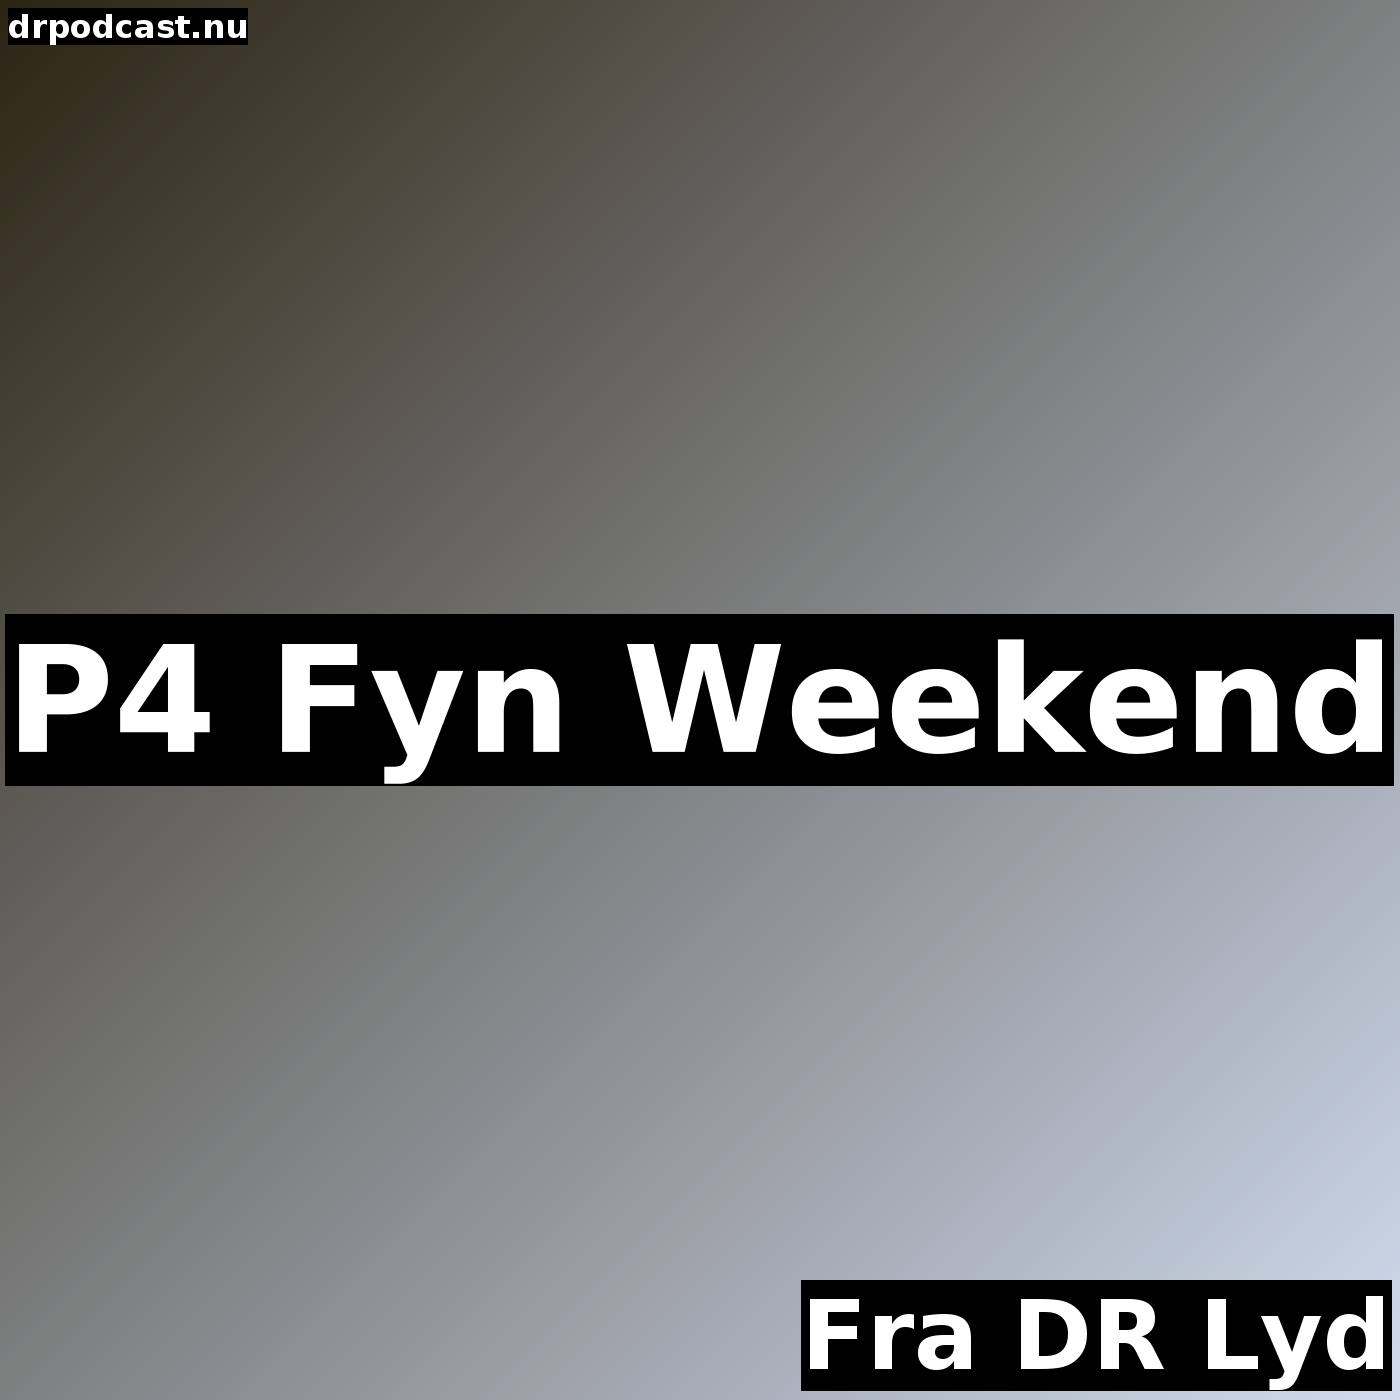
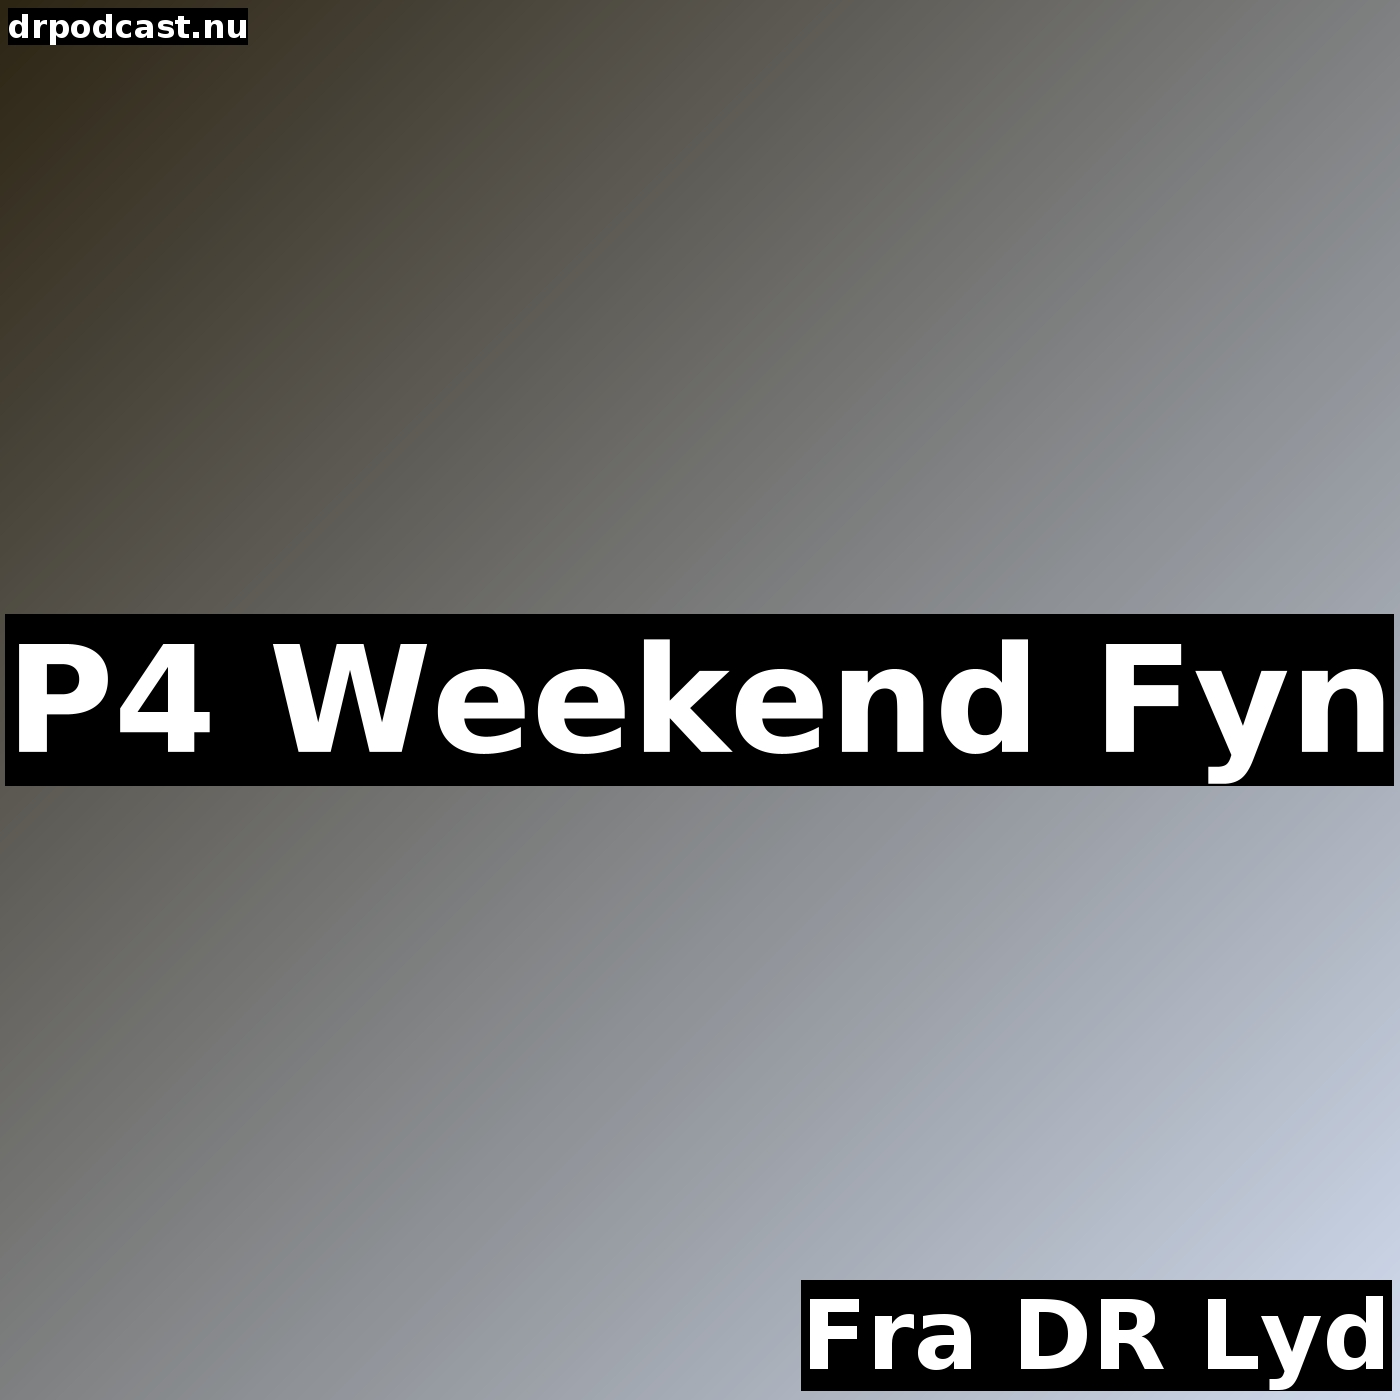
update

Changed region(s): [[0.1843, 0.4607, 1.0, 0.5836]]

diff --git a/index.html b/index.html
@@ -3164,9 +3164,9 @@
             </a>
             <a href="p4-fyn-weekend/feed.xml">
                 <div>
-                    <img class="tile" src="p4-fyn-weekend/image.jpg" alt="P4 Fyn Weekend" />
+                    <img class="tile" src="p4-fyn-weekend/image.jpg" alt="P4 Weekend Fyn" />
                     <br>
-                    <strong>P4 Fyn Weekend</strong>
+                    <strong>P4 Weekend Fyn</strong>
                 </div>
             </a>
             <a href="p4-fyn-regionale-nyheder/feed.xml">
